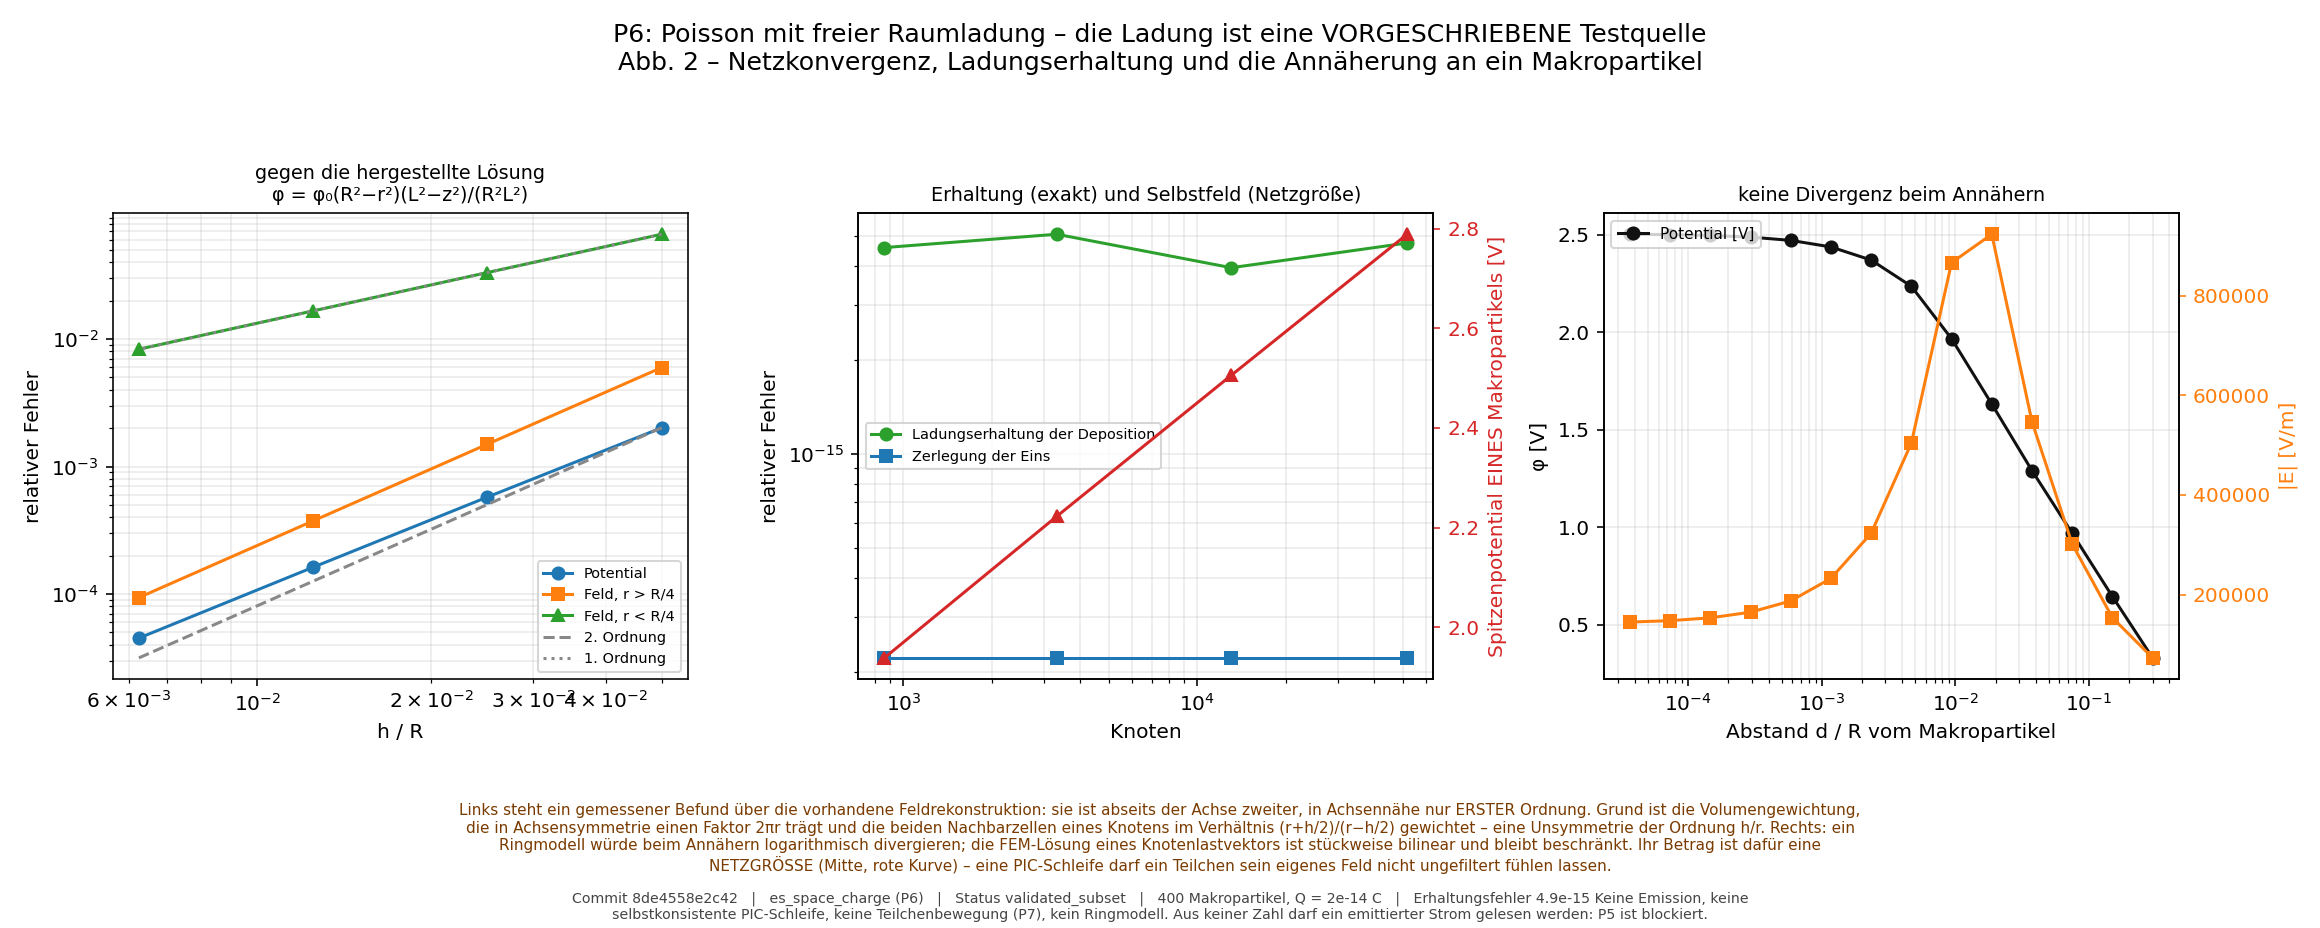
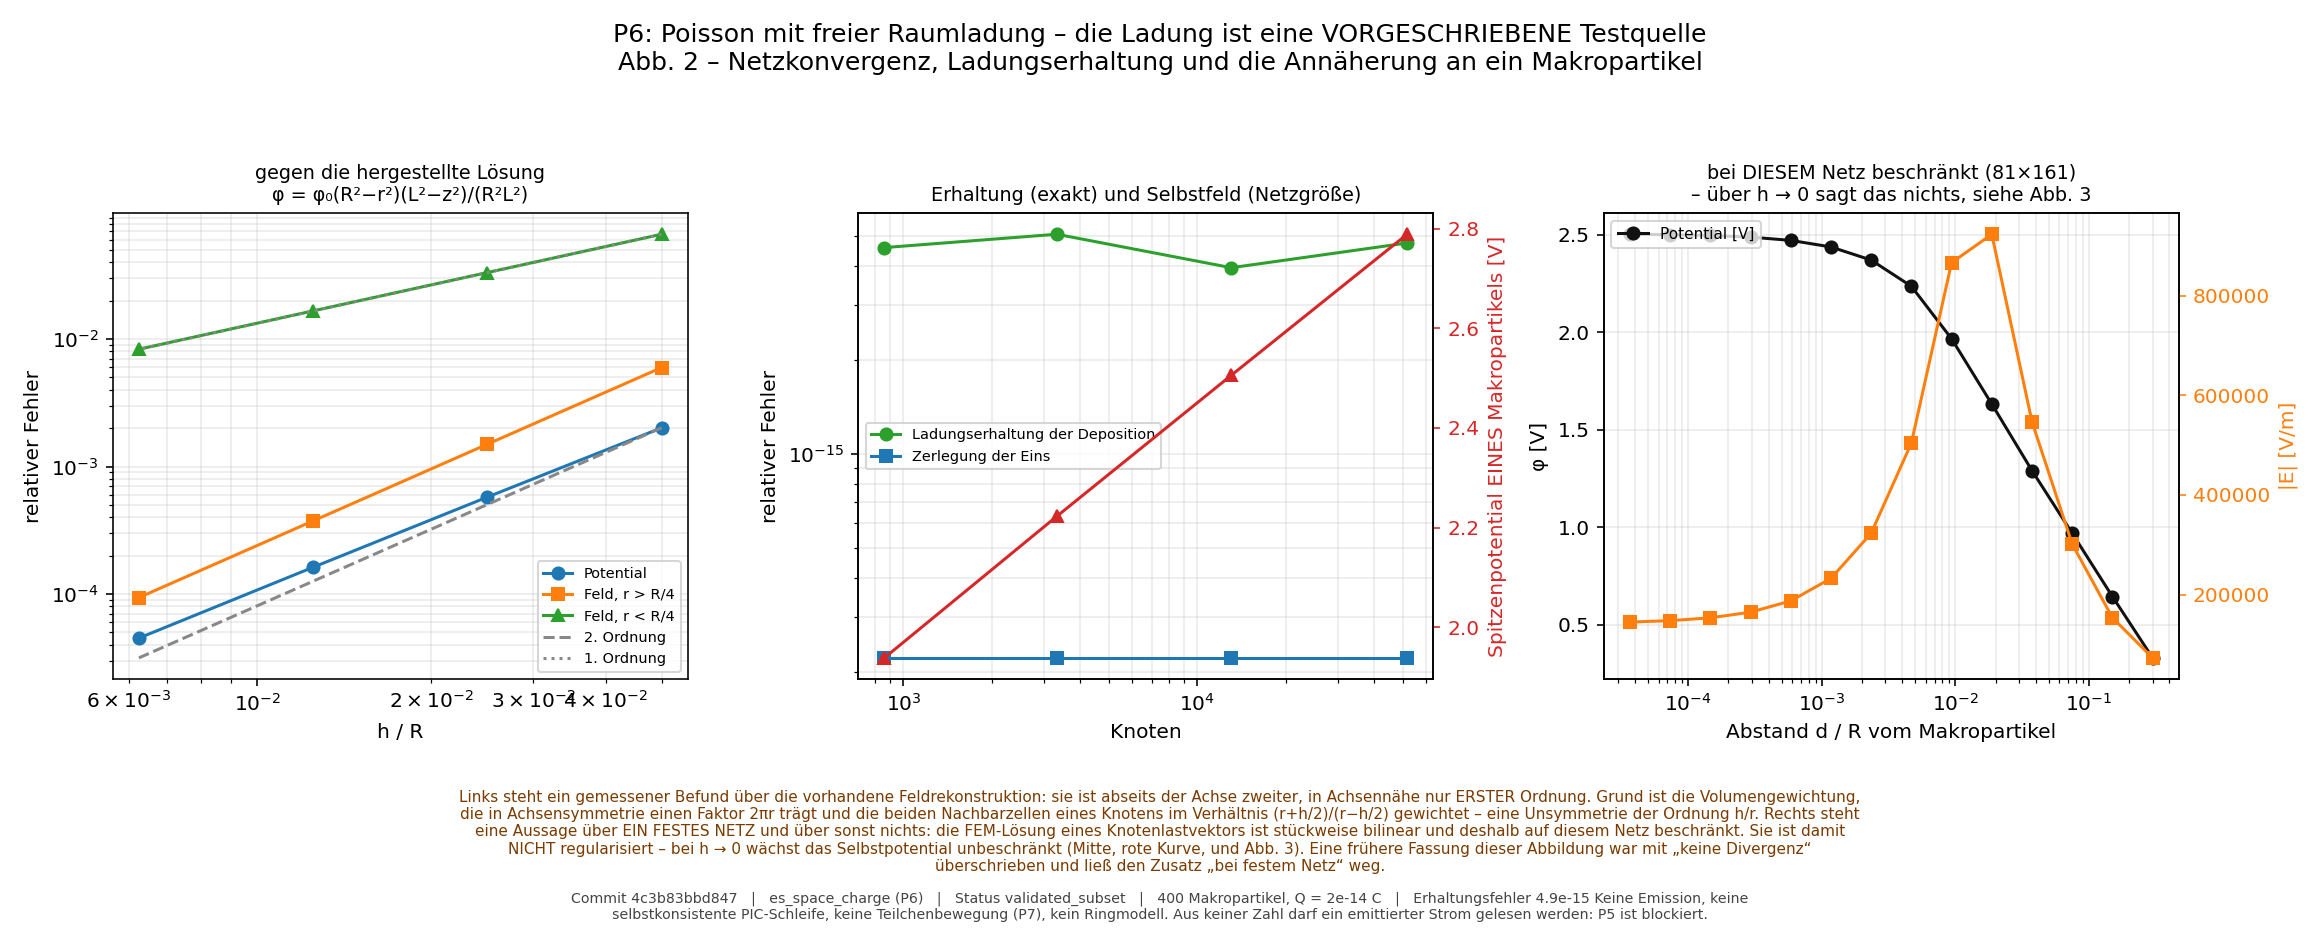
P6-Korrektur-Artefakte, erzeugt aus 4c3b83b bei sauberem Arbeitsbaum
./build/es_space_charge results/2026-08-29_p6_space_charge meta.commit=$(git rev-parse HEAD)
  python python/plot_space_charge.py results/2026-08-29_p6_space_charge

figures_provenance.txt weist releasable=yes, working_tree_dirty=no und den
Code-Commit aus.

Neue Daten: self_field_scaling.csv (Selbstpotential ueber fuenf Netzstufen, auf
UND abseits der Achse, mit beiden angepassten Gesetzen und beiden Resten),
foreign_field.csv (Fremdfeld bei festem Abstand mit Konvergenzordnung),
deposition_width.csv (die Wolkenbreite gegen die Zellgroesse -- die Messung, die
die feste Formbreite ausschliesst), self_to_total.csv (Selbstanteil gegen
Makropartikelzahl), self_field_exclusion.csv (scheinbare Selbstkraft mit und
ohne Abzug) und pic_options.csv (die drei Kandidaten mit Urteil, Begruendung und
Messung, plus der Status der PIC-Schleife).

Neue Abbildung 3 stellt die vier verschiedenen Fragen nebeneinander, damit der
Unterschied zwischen "bei festem Netz beschraenkt" und "bei h -> 0 konvergent"
nicht mehr uebersehen werden kann.

Keine Abbildung und keine CSV traegt die alte Formulierung weiter: approach.csv
heisst jetzt "BEI FESTEM NETZ (81 x 161)", und der Titel "keine Divergenz beim
Annaehern" ist ersetzt durch "bei DIESEM Netz beschraenkt -- ueber h -> 0 sagt
das nichts".

Claude-Session: https://claude.ai/code/session_01Hozq9yjzymoyEZTS8x1Eos

Changed region(s): [[0.1862, 0.8438, 0.8069, 1.0], [0.7138, 0.1562, 0.9, 0.2188]]

diff --git a/results/2026-08-29_p6_space_charge/README.md b/results/2026-08-29_p6_space_charge/README.md
@@ -33,7 +33,7 @@ Rotationsvolumenelement steckt bereits in dem Integral, aus dem die Ladung kam.
 | 1 | rho = 0 reproduziert die Laplace-Loesung | **bitgleich** (0,000e+00), Feld ebenfalls |
 | 2 | hergestellte Loesung phi = phi0 (R²−r²)(L²−z²)/(R²L²) | 4,5e-05 relativ, Ordnung 1,83 |
 | 3 | deponierte Ladung = Summe der Makropartikelladungen | 2,4e-16 relativ |
-| 4 | keine Divergenz beim Annaehern | beschraenkt ueber acht Halbierungen des Abstands |
+| 4 | Annaeherung **bei festem Netz** (81x161) | beschraenkt ueber acht Halbierungen des Abstands -- und ueber h -> 0 sagt das nichts, siehe unten |
 | 5 | Netzkonvergenz von Potential und Feld | siehe unten |
 | 6 | Polaritaet | Vorzeichen richtig; Loesung **exakt ungerade** in der Ladung (1e-12) |
 
@@ -41,16 +41,74 @@ Zusaetzlich: Selbstfeld und Elektrodenfeld getrennt geloest, Ueberlagerung exakt
 (2,6e-13 V von 250 V). Ein Teilchen ausserhalb des Netzes wird GEZAEHLT und
 nicht deponiert -- die Erhaltungspruefung schlaegt dann aus, statt zu schweigen.
 
-## Zwei Befunde, die man behalten sollte
+## Das Selbstfeld: die Deposition regularisiert NICHTS
 
-**1. Das Selbstfeld eines Makropartikels ist eine NETZGROESSE.** Sein
-Spitzenpotential waechst unter Verfeinerung (1,94 -> 2,22 -> 2,51 V ueber drei
-Stufen), weil ein feineres Netz die Ladung weniger verschmiert. Eine
-PIC-Schleife darf ein Teilchen sein eigenes deponiertes Feld deshalb nicht
-ungefiltert fuehlen lassen. Dieses Modul implementiert keine solche Korrektur;
-es macht den Effekt messbar.
+Eine fruehere Fassung berichtete hier *„keine Divergenz beim Annaehern“*. Das
+ist wahr und es ist eine Aussage ueber **ein festes Netz**. Ueber h -> 0 sagt es
+nichts, und dort ist die Antwort fuer jede der fuenf beteiligten Groessen eine
+andere. Sie werden jetzt getrennt gemessen.
 
-**2. Die vorhandene Feldrekonstruktion ist achsennah nur ERSTER Ordnung.**
+| | Frage | bei festem Netz | bei h -> 0 |
+|---|---|---|---|
+| (a) | Ladungserhaltung der Deposition | exakt (2,4e-16) | bleibt exakt auf **jeder** Stufe |
+| (b) | Fremdfeld bei **festem** Abstand | endlich | **konvergiert**: Ordnung 2,05 (phi) / 1,91 (E), letzte relative Aenderung 4e-05 |
+| (c) | Selbstpotential am Teilchen | endlich | **divergiert** -- siehe unten |
+| (d) | Breite der deponierten Wolke | eine Zelle | faellt **wie das Netz** gegen null |
+| (e) | Anteil des Selbstfeldes | — | faellt asymptotisch wie N^-0,82 mit der Makropartikelzahl |
+
+### (c) Das Selbstpotential divergiert, und das Gesetz haengt vom Ort ab
+
+| Lage | ueber fuenf Stufen (h: 1e-6 → 6,25e-8 m) | angepasstes Gesetz |
+|---|---|---|
+| abseits der Achse, r = 0,35 R | 1,938 → 3,073 V, Faktor **1,59** | 0,409·ln(1/h), Rest 1,2e-04 |
+| auf der Achse, r = 0 | 32,4 → 524,6 V, Faktor **16,18** | h^-1,004, Rest 3,0e-04 |
+
+Beide Gesetze werden angepasst und beide Reste berichtet. Das Ergebnis ist genau
+das physikalisch Erwartete: abseits der Achse ist ein Makropartikel ein **Ring**,
+dessen exaktes Potential auf dem Ring logarithmisch singulaer ist -- bei h
+abgeschnitten waechst es wie ln(1/h). Auf der Achse entartet der Ring zur
+**Punktladung** mit 1/d-Singularitaet, also wie 1/h.
+
+Der fruehere Header-Kommentar behauptete, es muesse „wie 1/h“ wachsen. Das ist
+**nur** das Achsengesetz; abseits der Achse liefert der Potenzfit mit 0,166 einen
+deutlich schlechteren Rest als der Logarithmus.
+
+**Damit ist die Deposition keine netzunabhaengige Regularisierung.**
+
+## Die drei Kandidaten, mit Urteil und mit der Messung dahinter
+
+| Variante | Urteil | Begruendung |
+|---|---|---|
+| **Selbstfeldabzug** | `implemented` | Eine Ladung uebt auf sich selbst keine Kraft aus; das deponierte Selbstfeld ist reines Artefakt und traegt eine Richtung, die allein von der Lage im Zellinneren abhaengt. Die diskrete Aufgabe ist **linear**, also exakt abziehbar statt daempfbar. |
+| feste physikalische Formbreite | `rejected_free_parameter` | Es gibt keine physikalische Laenge, die sie festlegte -- Messung (d) zeigt, dass in der Wolke nur h steckt. Sie waere ein **frei gewaehlter** Glaettungsparameter. |
+| skalierte Makropartikelzahl | `measured_not_implemented` | Tragfaehig und der uebliche PIC-Weg, aber eine Eigenschaft einer **Schleife**, die es hier nicht gibt. Gemessen, nicht behauptet. |
+
+Die Tabelle liegt als `es::pic_options()` in der Bibliothek und wird in
+`tests/test_space_charge.cpp`, Abschnitt 9, geprueft -- unter anderem darauf,
+dass **genau eine** Variante implementiert ist.
+
+**Was der Abzug leistet.** Ein *einzelnes* Teilchen im sonst leeren, geerdeten
+Kasten spuert ohne Abzug 1,13e5 bis 1,42e5 V/m, obwohl nichts anderes darin ist;
+der Betrag haengt allein von seiner Lage in der Zelle ab. Mit Abzug spuert es
+**exakt null**. Die Linearitaet wird gegen die volle Loesung geprueft:
+Ueberlagerungsfehler 1,6e-15.
+
+**Der Preis:** eine zusaetzliche Loesung je Teilchen. Fuer eine Diagnose richtig,
+fuer eine Produktionsschleife untragbar.
+
+## Die PIC-Schleife bleibt blockiert -- aus zwei unabhaengigen Gruenden
+
+1. **Keine Quelle.** P5 ist blockiert; es gibt keine belegte Emissionsrate.
+2. **Keine tragfaehige Kostenstruktur.** Der Abzug kostet eine Loesung je
+   Teilchen.
+
+Beide sind unabhaengig: faellt einer weg, bleibt der andere. P6 bleibt damit ein
+**validierter Poisson- und Depositions-Teiltest** mit einer exakt begruendeten
+Selbstfeldbehandlung fuer die Diagnose -- und keine PIC-Schleife.
+
+## Der zweite Befund, der bleibt
+
+**Die vorhandene Feldrekonstruktion ist achsennah nur ERSTER Ordnung.**
 
 | Groesse | Ordnung |
 |---|---|
@@ -61,13 +119,13 @@ es macht den Effekt messbar.
 Ursache: `field_recovered_at_node()` mittelt die superkonvergenten
 Zellmittelpunkt-Gradienten mit dem ZELLVOLUMEN als Gewicht, und dieses traegt in
 Achsensymmetrie einen Faktor 2 pi r. Die beiden Nachbarzellen eines Knotens bei
-Radius r werden damit im Verhaeltnis (r+h/2)/(r−h/2) gewichtet -- eine
+Radius r werden damit im Verhaeltnis (r+h/2)/(r-h/2) gewichtet -- eine
 Unsymmetrie der Ordnung h/r.
 
-Das betrifft mehr als P6: dieselbe Rekonstruktion liefert jedes
-Oberflaechenfeld von P2b, P2c und P3b. Es entwertet diese Ergebnisse nicht,
-deren Groessen sind Integrale oder liegen fern der Achse -- aber ein Feld
-erster Ordnung ist das, was eine PIC-Schleife abtasten wuerde.
+Das betrifft mehr als P6: dieselbe Rekonstruktion liefert jedes Oberflaechenfeld
+von P2b, P2c und P3b. Es entwertet diese Ergebnisse nicht, deren Groessen sind
+Integrale oder liegen fern der Achse -- aber ein Feld erster Ordnung ist das, was
+eine PIC-Schleife abtasten wuerde.
 
 Gefunden wurde es, indem der Fehler NACH RADIUS getrennt berichtet wurde statt
 als eine Zahl fuer das ganze Gebiet.
@@ -76,11 +134,30 @@ als eine Zahl fuer das ganze Gebiet.
 
 Keine Emission, keine selbstkonsistente PIC-Schleife, keine Teilchenbewegung
 (P7), kein Ringmodell, keine Magnetfelder, keine Stoesse, keine
-raumladungsbegrenzte Emission, keine Selbstfeldkorrektur.
+raumladungsbegrenzte Emission.
+
+Und ausdruecklich: **keine netzunabhaengige Regularisierung des Selbstfeldes.**
+Der exakte Abzug entfernt die scheinbare Selbstkraft vollstaendig, macht das
+Selbstpotential aber nicht netzunabhaengig -- es gibt es danach am Teilchen
+schlicht nicht mehr. Fuer alles andere bleibt das deponierte Feld eine
+Netzgroesse. Keine skalierte Makropartikelzahl und damit keine
+PIC-Konvergenzstrategie: gemessen, nicht implementiert.
 
 ## Abbildungen
 
 | Datei | Inhalt |
 |---|---|
 | `fig1_space_charge.png` | deponierte Knotenladung, Potential mit Ladung, die Potentialaenderung gegen rho = 0 und die Feldaenderung |
-| `fig2_checks.png` | Netzkonvergenz gegen die hergestellte Loesung nach Radius getrennt, Ladungserhaltung und Selbstfeldskalierung, und die Annaeherung an ein einzelnes Makropartikel |
+| `fig2_checks.png` | Netzkonvergenz gegen die hergestellte Loesung nach Radius getrennt, Ladungserhaltung und Selbstfeldskalierung, und die Annaeherung an ein einzelnes Makropartikel **bei festem Netz** |
+| `fig3_self_field.png` | was bei festem Netz beschraenkt ist, was bei h -> 0 divergiert (beide Lagen, mit angepasstem Gesetz), was bei h -> 0 konvergiert, und der Abzug, der die scheinbare Selbstkraft auf exakt null bringt |
+
+## Dateien
+
+`self_field_scaling.csv` -- das Selbstpotential ueber fuenf Netzstufen, auf und
+abseits der Achse, mit beiden angepassten Gesetzen und beiden Resten.
+`foreign_field.csv` -- das Fremdfeld bei festem Abstand und seine Konvergenzordnung.
+`deposition_width.csv` -- die Breite der deponierten Wolke gegen die Zellgroesse.
+`self_to_total.csv` -- der Selbstanteil gegen die Makropartikelzahl.
+`self_field_exclusion.csv` -- die scheinbare Selbstkraft mit und ohne Abzug.
+`pic_options.csv` -- die drei Kandidaten mit Urteil, Begruendung und Messung,
+und der Status der PIC-Schleife.
